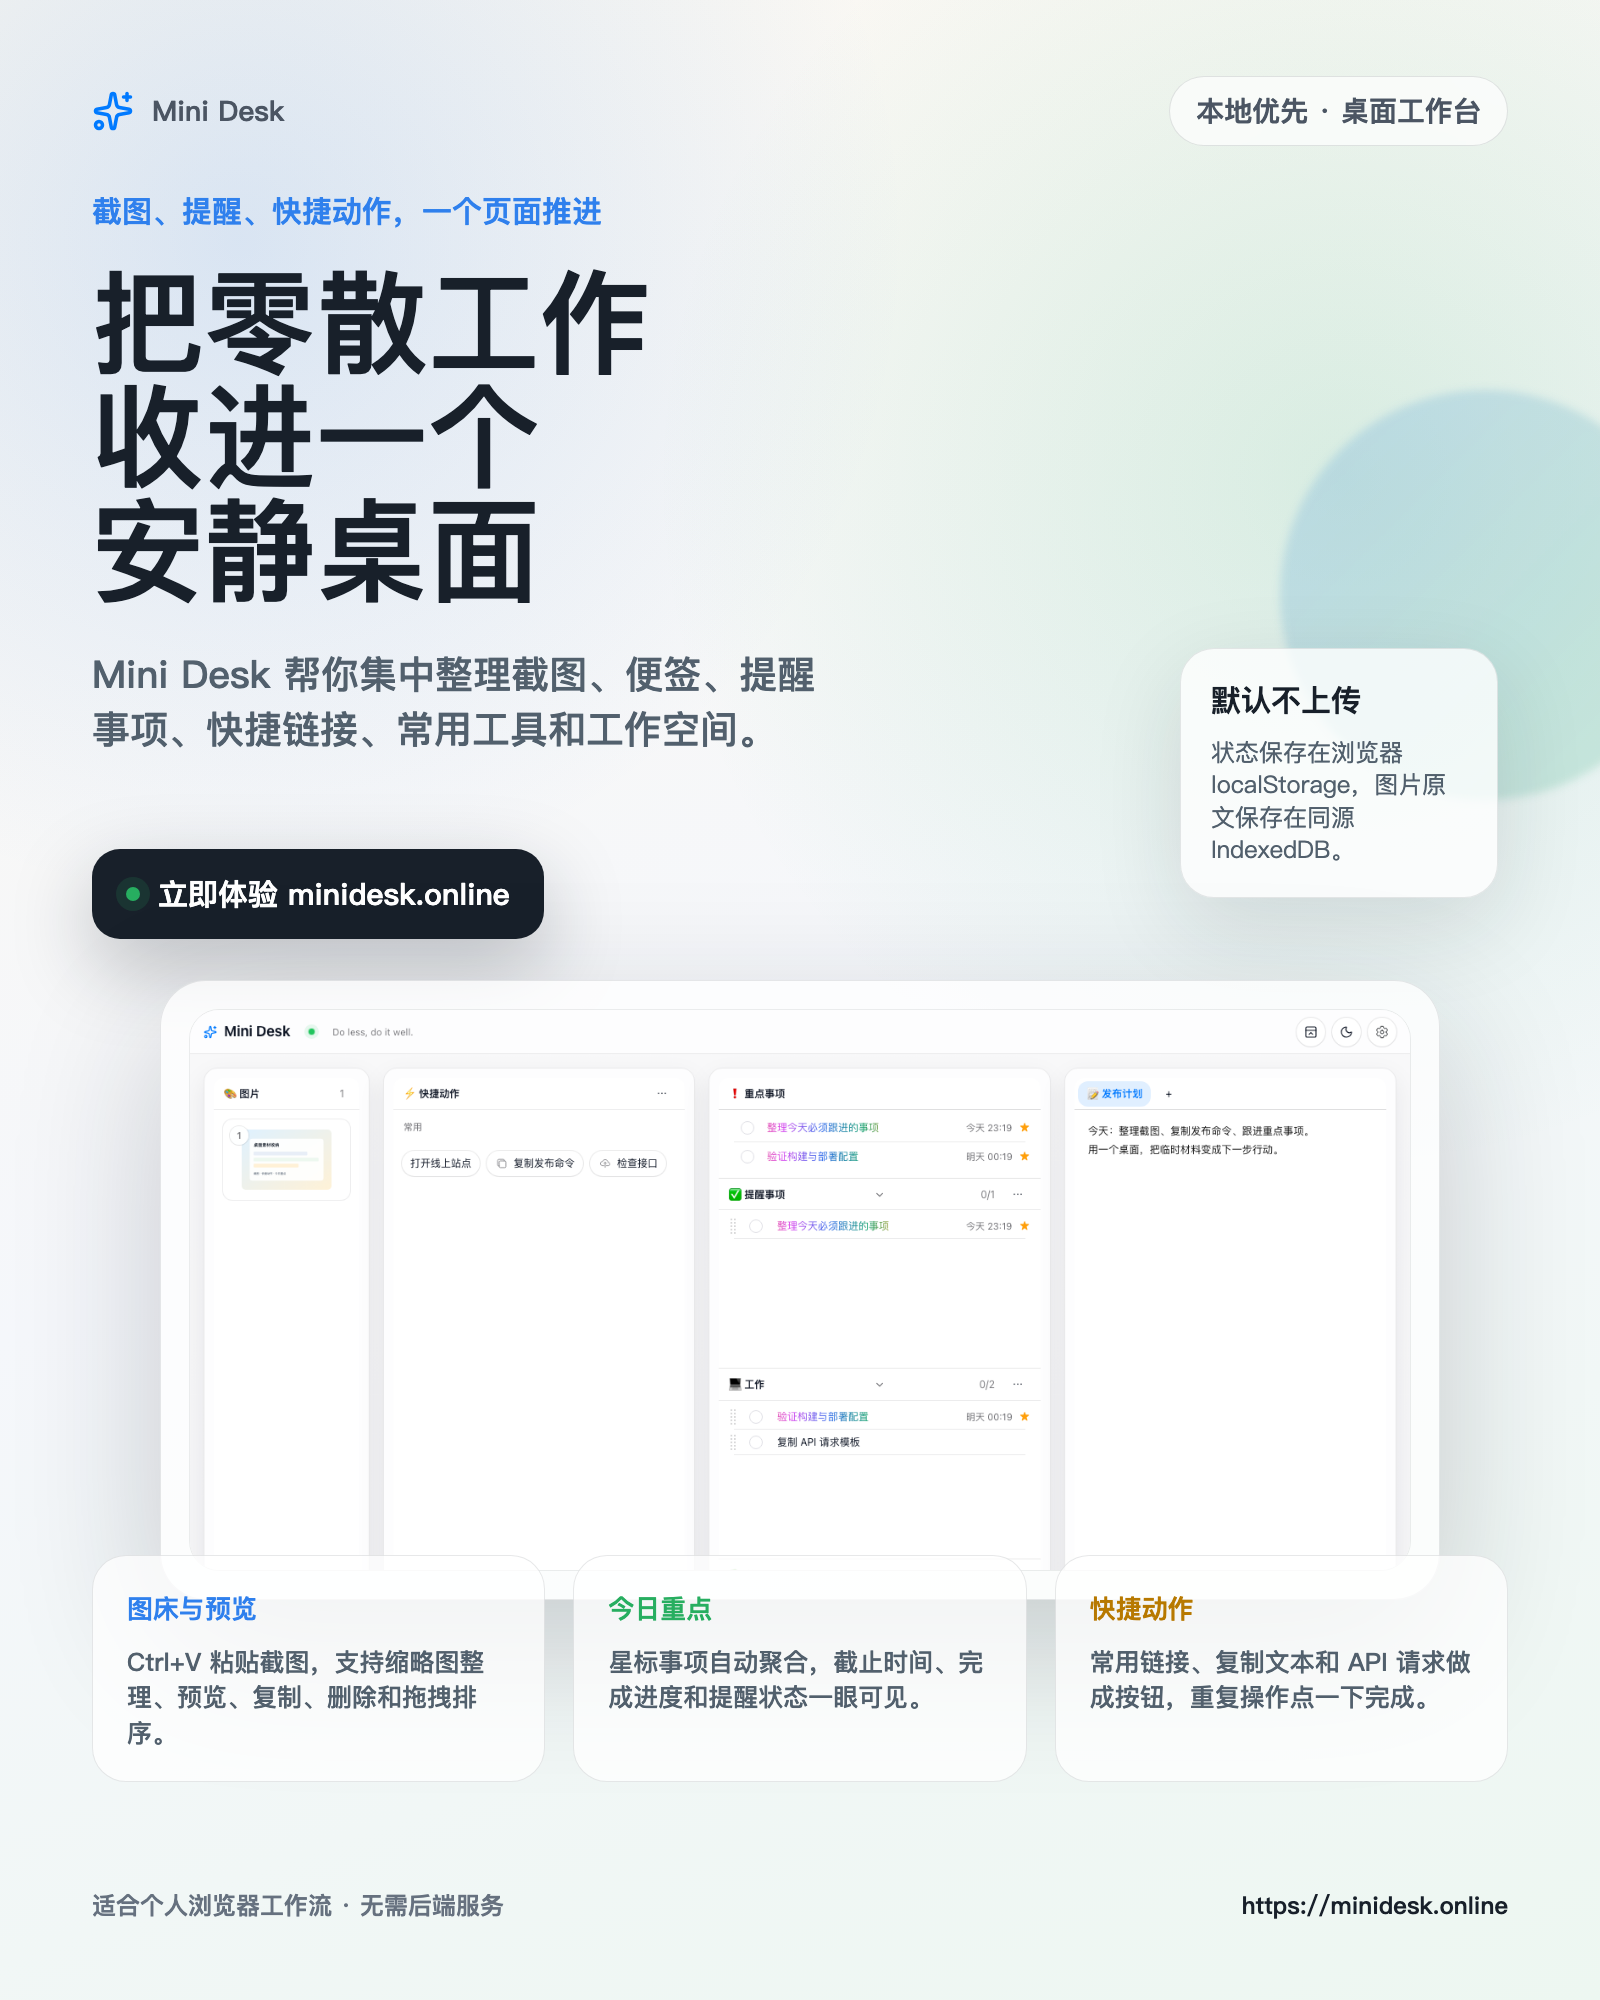
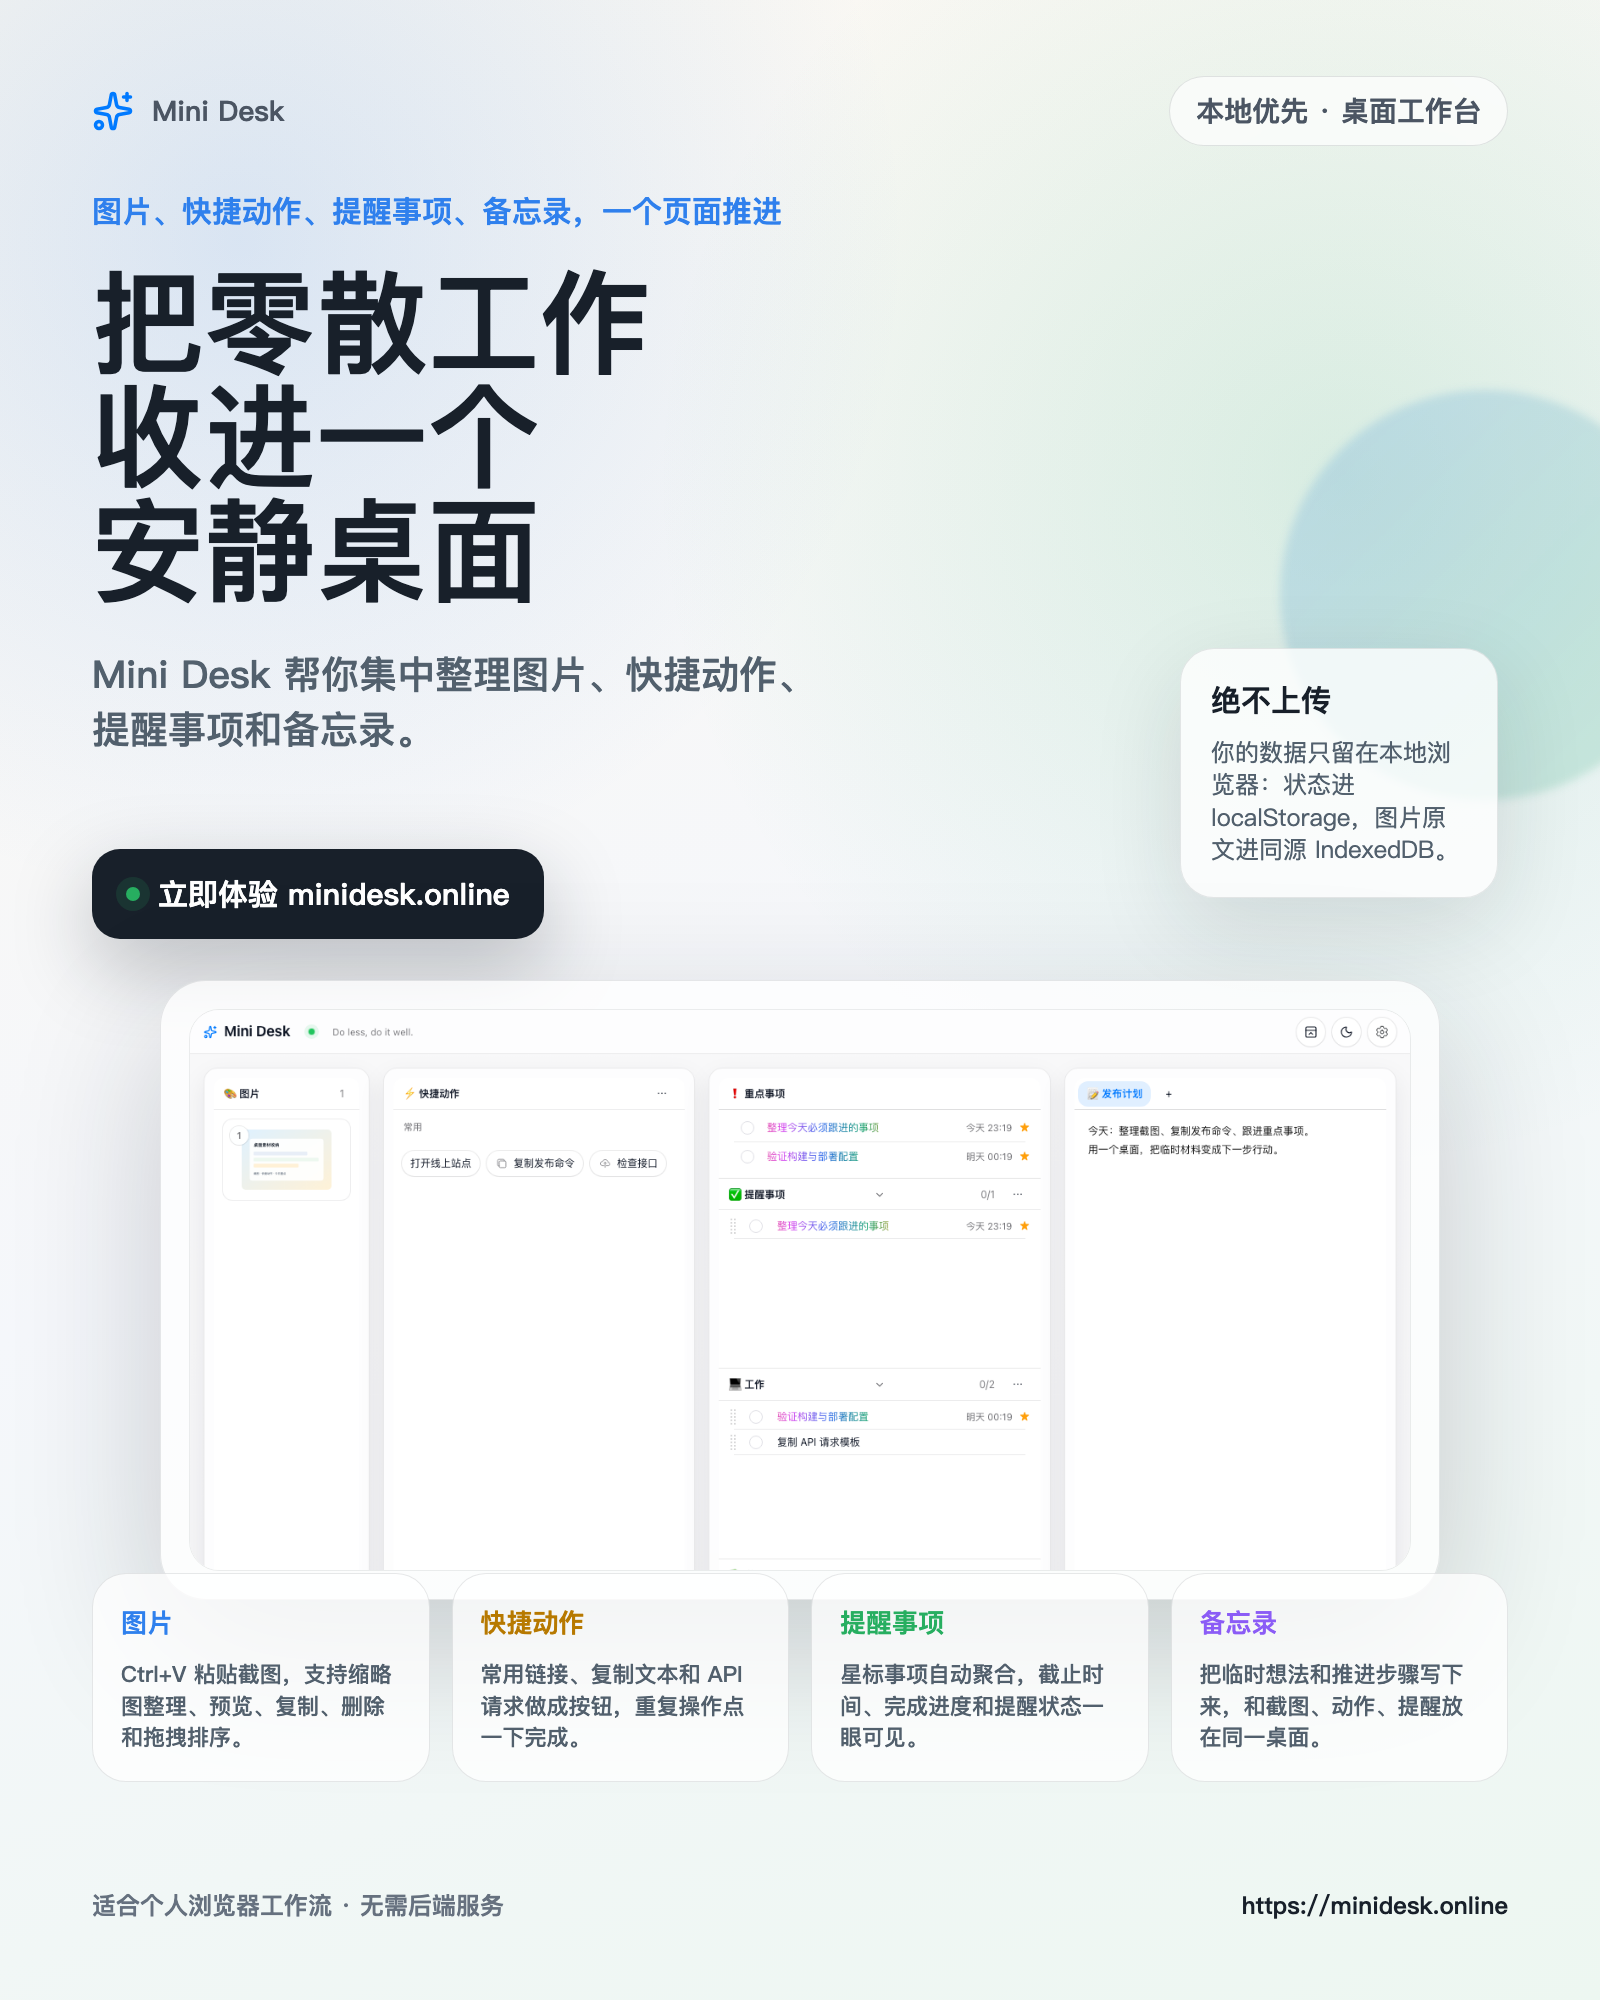
Update promo poster copy

diff --git a/outputs/mini-desk-promo-poster/poster.html b/outputs/mini-desk-promo-poster/poster.html
@@ -142,13 +142,13 @@
         right: 92px;
         bottom: 218px;
         display: grid;
-        grid-template-columns: repeat(3, 1fr);
-        gap: 28px;
+        grid-template-columns: repeat(4, 1fr);
+        gap: 22px;
       }
 
       .feature {
         min-height: 188px;
-        padding: 34px 34px 30px;
+        padding: 30px 28px 28px;
         border-radius: 34px;
         background: rgba(255, 255, 255, 0.76);
         border: 1px solid rgba(24, 32, 42, 0.1);
@@ -162,7 +162,7 @@
 
       .feature-copy {
         color: #52606d;
-        font-size: 25px;
+        font-size: 22px;
         line-height: 1.42;
         font-weight: 500;
       }
@@ -177,6 +177,10 @@
 
       .amber {
         color: #b77900;
+      }
+
+      .purple {
+        color: #8b5cf6;
       }
 
       .footer {
@@ -246,9 +250,9 @@
       </div>
 
       <section class="hero">
-        <div class="eyebrow">截图、提醒、快捷动作，一个页面推进</div>
+        <div class="eyebrow">图片、快捷动作、提醒事项、备忘录，一个页面推进</div>
         <h1>把零散工作<br />收进一个<br />安静桌面</h1>
-        <p class="subtitle">Mini Desk 帮你集中整理截图、便签、提醒事项、快捷链接、常用工具和工作空间。</p>
+        <p class="subtitle">Mini Desk 帮你集中整理图片、快捷动作、提醒事项和备忘录。</p>
         <div class="cta">
           <span class="cta-dot"></span>
           <span>立即体验 minidesk.online</span>
@@ -256,8 +260,8 @@
       </section>
 
       <aside class="strip">
-        <div class="strip-title">默认不上传</div>
-        <div class="strip-copy">状态保存在浏览器 localStorage，图片原文保存在同源 IndexedDB。</div>
+        <div class="strip-title">绝不上传</div>
+        <div class="strip-copy">你的数据只留在本地浏览器：状态进 localStorage，图片原文进同源 IndexedDB。</div>
       </aside>
 
       <section class="mockup-wrap">
@@ -266,16 +270,20 @@
 
       <section class="feature-row">
         <div class="feature">
-          <div class="feature-label blue">图床与预览</div>
+          <div class="feature-label blue">图片</div>
           <div class="feature-copy">Ctrl+V 粘贴截图，支持缩略图整理、预览、复制、删除和拖拽排序。</div>
-        </div>
-        <div class="feature">
-          <div class="feature-label green">今日重点</div>
-          <div class="feature-copy">星标事项自动聚合，截止时间、完成进度和提醒状态一眼可见。</div>
         </div>
         <div class="feature">
           <div class="feature-label amber">快捷动作</div>
           <div class="feature-copy">常用链接、复制文本和 API 请求做成按钮，重复操作点一下完成。</div>
+        </div>
+        <div class="feature">
+          <div class="feature-label green">提醒事项</div>
+          <div class="feature-copy">星标事项自动聚合，截止时间、完成进度和提醒状态一眼可见。</div>
+        </div>
+        <div class="feature">
+          <div class="feature-label purple">备忘录</div>
+          <div class="feature-copy">把临时想法和推进步骤写下来，和截图、动作、提醒放在同一桌面。</div>
         </div>
       </section>
 